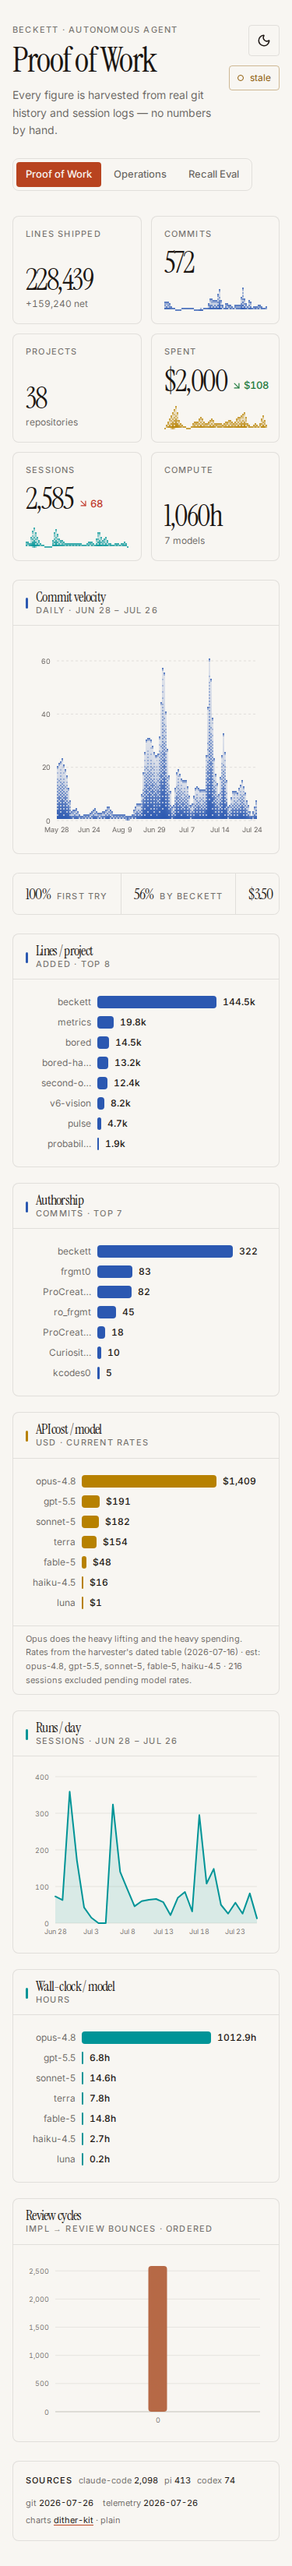
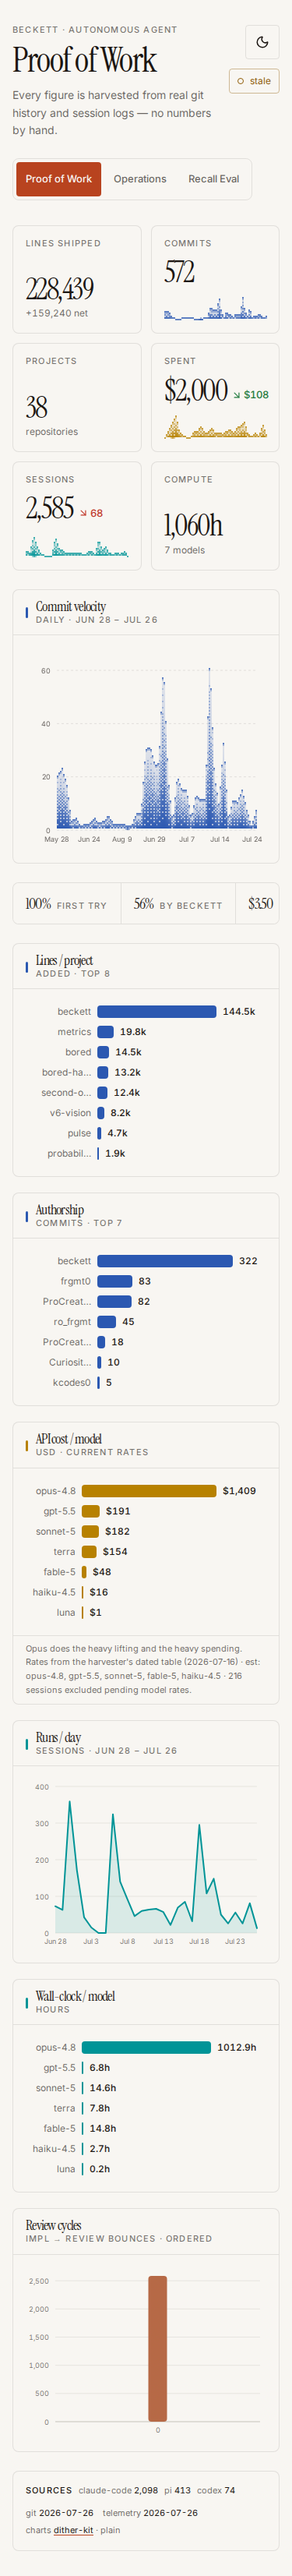
metrics: 44px touch targets on the masthead controls (#3)
The theme toggle and the view tabs measured 40x40 and 109x32 on a phone —
under the 44px floor. Pad them on touch and keep the composed desktop height
from sm: up, so the header looks identical above 640px.

diff --git a/src/App.tsx b/src/App.tsx
@@ -272,7 +272,7 @@ export function App() {
                 type="button"
                 onClick={toggle}
                 aria-label={dark ? "Switch to light theme" : "Switch to dark theme"}
-                className="rounded-md border border-border p-2.5 text-foreground transition-[color,background-color,border-color,transform] duration-200 ease-out hover:border-border-strong hover:bg-secondary hover:text-primary active:scale-95 focus-visible:outline-none focus-visible:ring-2 focus-visible:ring-ring focus-visible:ring-offset-2 focus-visible:ring-offset-background"
+                className="rounded-md border border-border p-3 text-foreground transition-[color,background-color,border-color,transform] duration-200 ease-out sm:p-2.5 hover:border-border-strong hover:bg-secondary hover:text-primary active:scale-95 focus-visible:outline-none focus-visible:ring-2 focus-visible:ring-ring focus-visible:ring-offset-2 focus-visible:ring-offset-background"
               >
                 {dark ? <Sun className="size-4.5" /> : <Moon className="size-4.5" />}
               </button>
@@ -288,7 +288,8 @@ export function App() {
                 onClick={() => setTab(t.id)}
                 aria-current={tab === t.id ? "page" : undefined}
                 className={cn(
-                  "rounded-md px-3 py-1.5 text-[13px] font-medium transition-colors duration-200 ease-out focus-visible:outline-none focus-visible:ring-2 focus-visible:ring-ring sm:px-4",
+                  // Roomier on touch (44px), the composed desktop height above sm.
+                  "rounded-md px-3 py-3 text-[13px] font-medium transition-colors duration-200 ease-out focus-visible:outline-none focus-visible:ring-2 focus-visible:ring-ring sm:px-4 sm:py-1.5",
                   tab === t.id
                     ? "bg-primary text-primary-foreground"
                     : "text-muted-foreground hover:bg-secondary hover:text-foreground",
